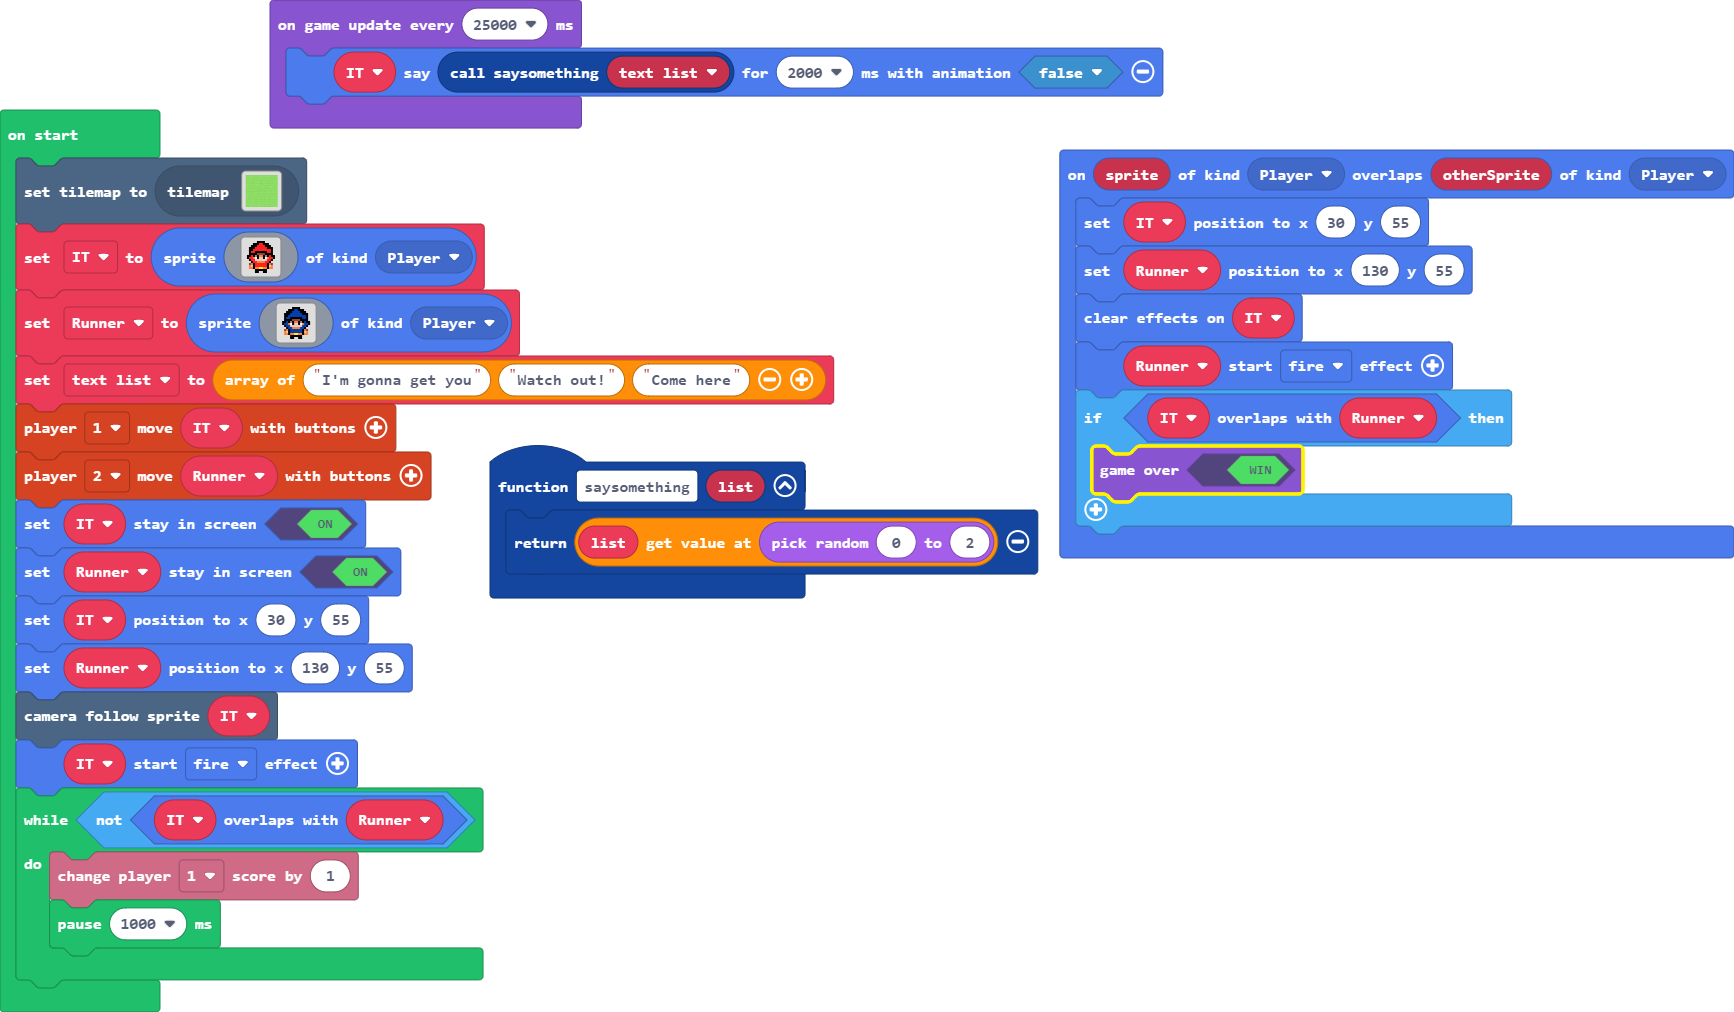
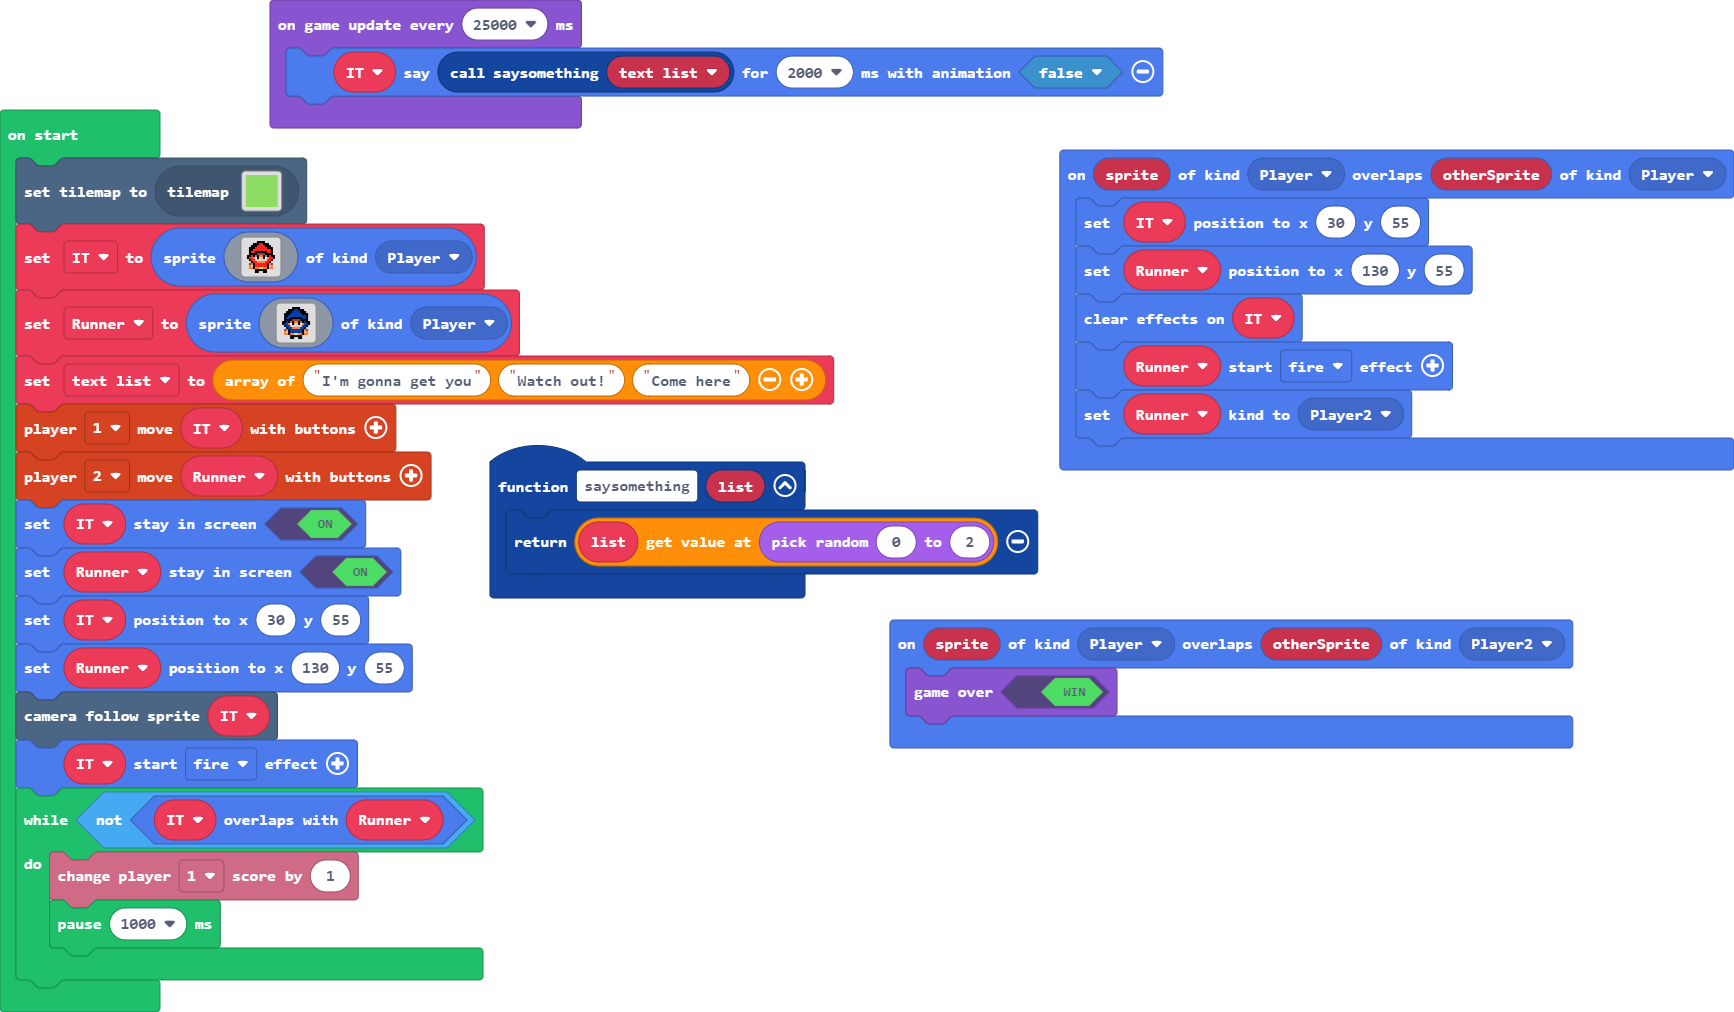
Update main.blocks, main.ts

diff --git a/main.ts b/main.ts
@@ -1,14 +1,18 @@
+namespace SpriteKind {
+    export const Player2 = SpriteKind.create()
+}
 function saysomething (list: any[]) {
     return list[randint(0, 2)]
 }
+sprites.onOverlap(SpriteKind.Player, SpriteKind.Player2, function (sprite, otherSprite) {
+    game.gameOver(true)
+})
 sprites.onOverlap(SpriteKind.Player, SpriteKind.Player, function (sprite, otherSprite) {
     IT.setPosition(30, 55)
     Runner.setPosition(130, 55)
     effects.clearParticles(IT)
     Runner.startEffect(effects.fire)
-    if (IT.overlapsWith(Runner)) {
-        game.gameOver(true)
-    }
+    Runner.setKind(SpriteKind.Player2)
 })
 let Runner: Sprite = null
 let IT: Sprite = null
